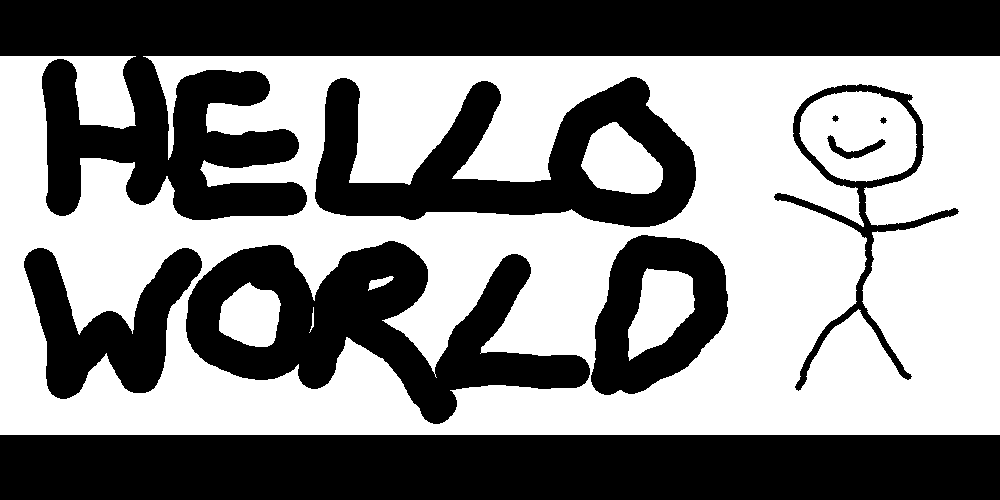
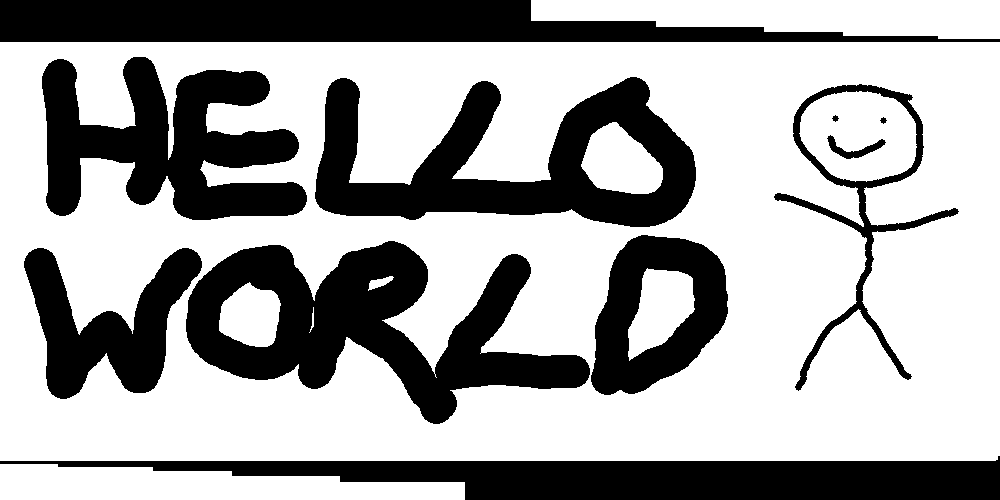
thinner margins, also tried changing greytable for extra coverage.

Changed region(s): [[0.0, 0.87, 1.0, 1.0], [0.0, 0.0, 1.0, 0.12]]

diff --git a/controller/firmware/printhead.c b/controller/firmware/printhead.c
@@ -13,7 +13,10 @@
 extern uint8_t bk_data[K_NOZZLES];
 extern uint8_t cl_data[C_NOZZLES + M_NOZZLES + Y_NOZZLES];
 //uint8_t greytable[16] = {1,0,0,0,   1,1,0,0,   1,0,0,0,   1,1,1,0};
+
+//uint8_t greytable[16] = {1,1,1,0,   1,1,1,0,   1,1,1,0,   1,1,1,0}; /* definitely more wax, but dusty... */
 const uint8_t greytable[16] = {0,0,1,0,  0,0,0,0,  0,0,0,0,  0,0,0,0};
+
 //uint8_t greytable[16] = {1,0,0,0,  0,0,1,0,  1,1,0,0,  0,0,0,1};
 
 #define nchg(x) do { if (x) P3OUT |= (1<<NCHG); else P3OUT &= ~(1<<NCHG); } while (0)

diff --git a/controller/firmware/print.c b/controller/firmware/print.c
@@ -9,7 +9,7 @@
 #define TEST_SIZE_X 150
 #define TEST_SIZE_Y 10
 /* Open space on the side of images */
-#define MARGIN 500
+#define MARGIN 50
 /* Default x position for printing (top left, we print left to right) */
 #define PRINT_X_ORIGIN  1500
 /* number of passes necessary to deposit enough wax */
